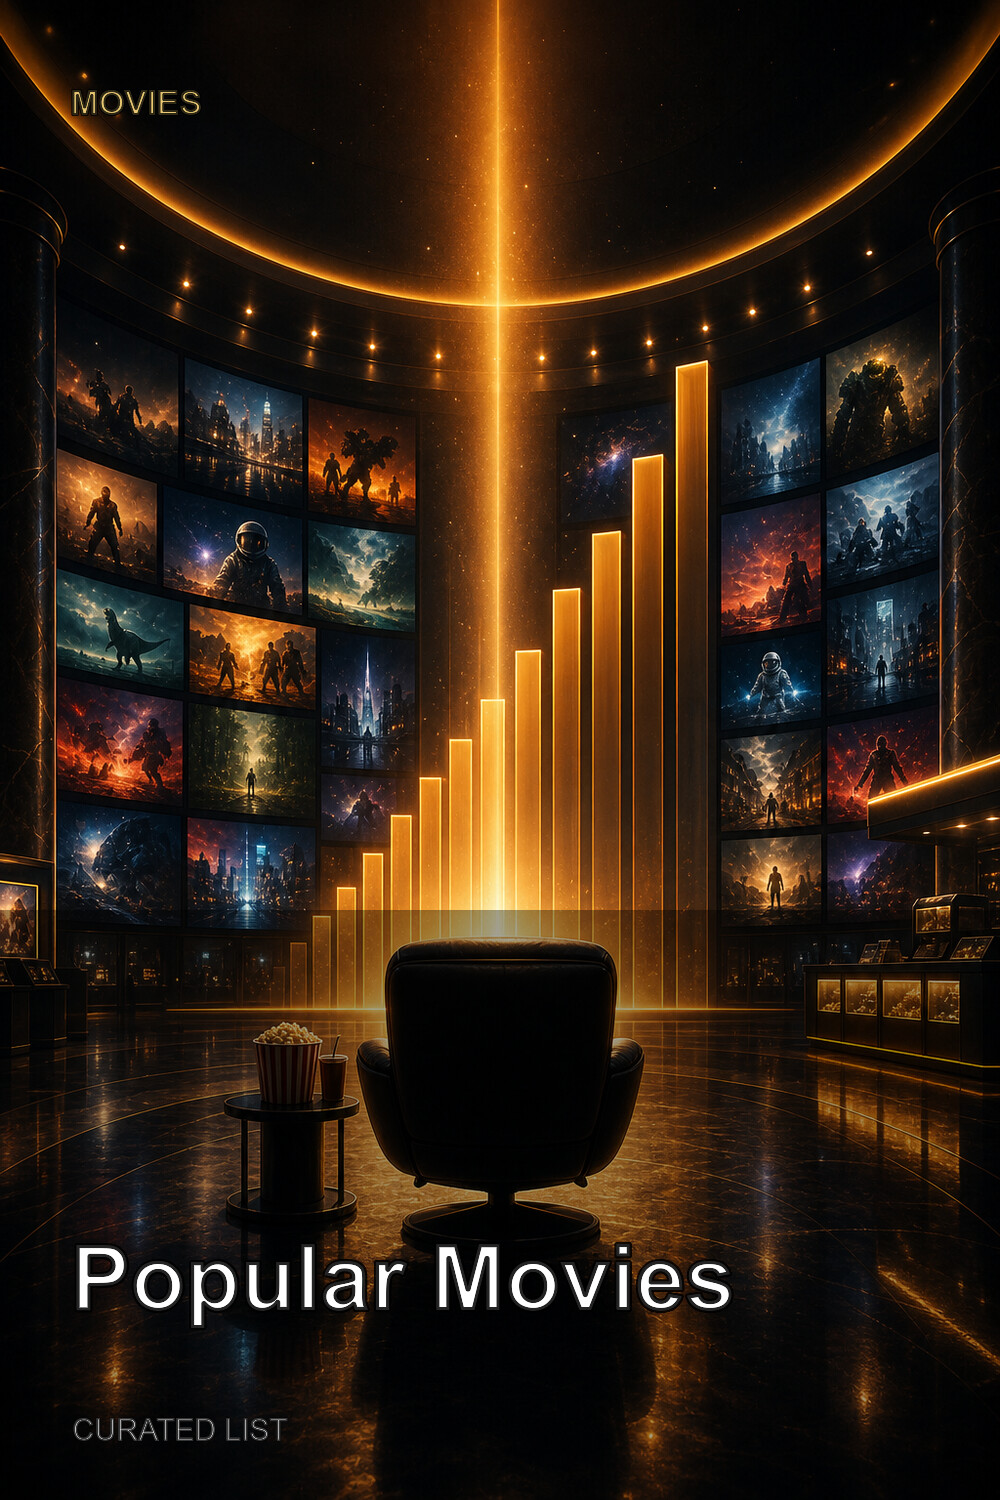
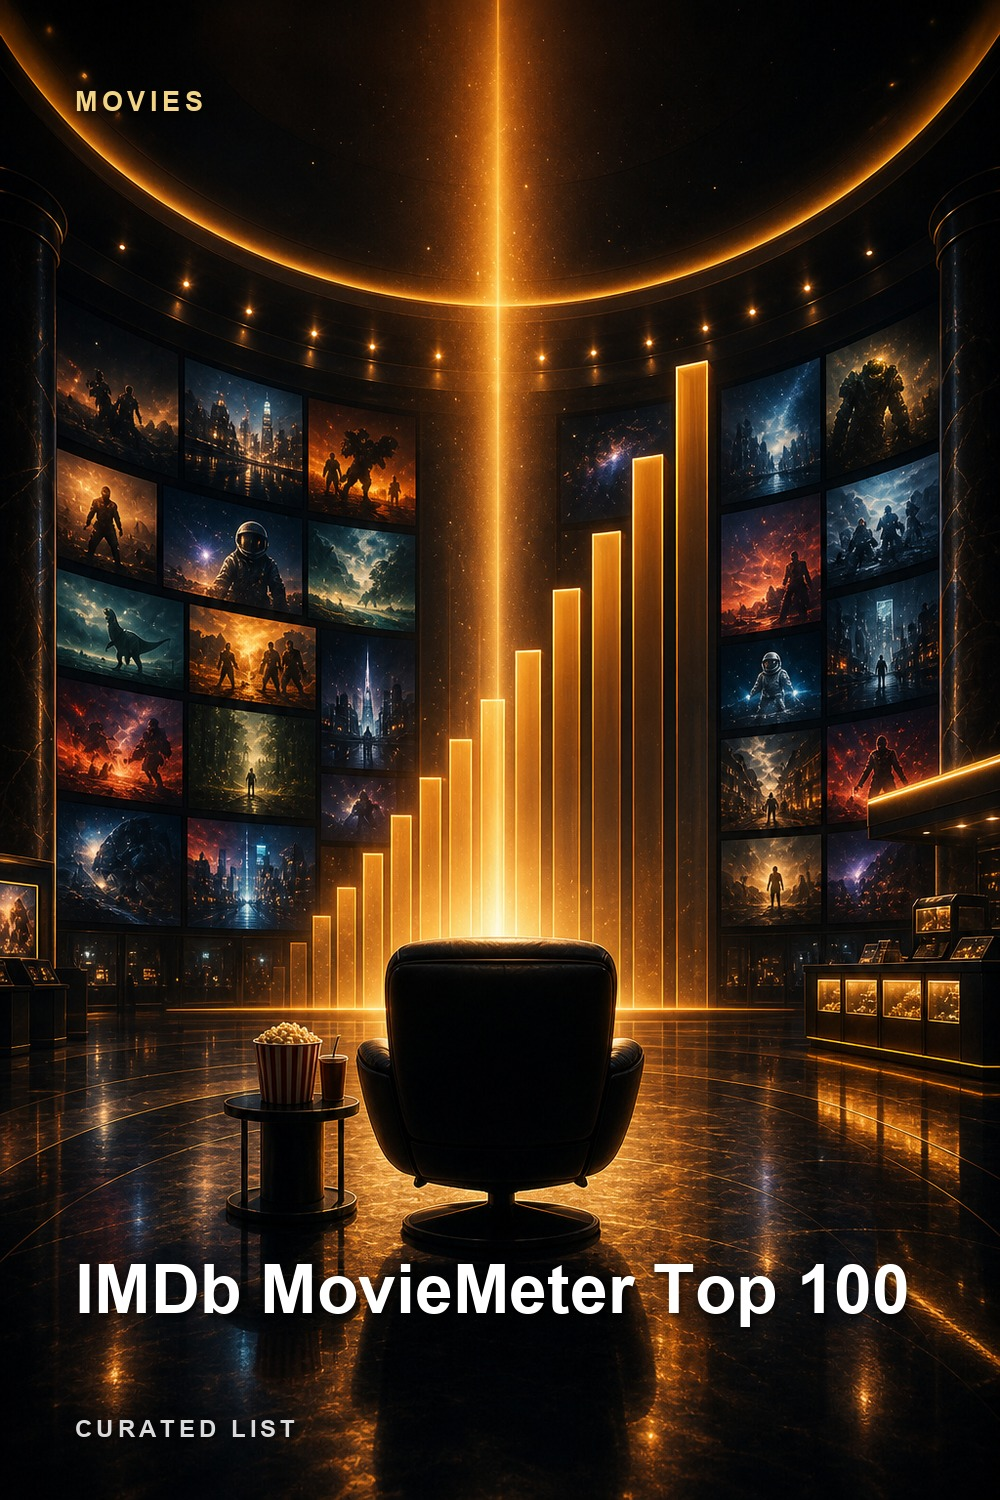
fix(collections): repair broken builtin collection templates (#331)
* fix(collections): repair broken builtin collection templates

A live audit of the builtin template catalog (all 40 MDBList URLs and all
10 TMDB franchise IDs fetched) found two dead sources, a silent bundle-apply
collision, and several templates whose defaults contradict their descriptions:

- Repoint mdblist_misc_a24 and mdblist_misc_criterion_collection to live
  lists; the original irvingbeano/shtluck lists were deleted on MDBList
  (404), so every sync of those collections failed.
- Retitle mdblist_charts_popular_movies to "IMDb MovieMeter Top 100". It
  shared the "popular-movies" title slug with tmdb_popular_movies, and
  bundle apply dedupes by slug per library, so applying all_defaults
  silently skipped it. Poster regenerated from the raw plate with the new
  title; new handler test asserts builtin title slugs stay unique.
- Raise the shared default limit 50 -> 100, give the IMDb Top 250 templates
  an explicit 250 (limit*4 fetch trim previously never scanned entries
  201-250), and drop the limit on catalog lists (Criterion, A24) so they
  hold every owned title.
- Correct IFC Films to MediaMovie (live list is 100% movies; as MediaMixed
  it was offered to TV libraries where it always synced empty) and fix the
  Trakt Popular descriptions (ratings-based, not "most-watched").
- Update stale limit docs in collection-templates.md.

* fix(collections): raise import limit caps above IMDb Top 250 default
[…]

diff --git a/web/src/pages/adminCollectionsShared.tsx b/web/src/pages/adminCollectionsShared.tsx
@@ -2,7 +2,11 @@ import { useEffect, useState } from "react";
 import type { FormEvent, ReactNode } from "react";
 import type { CreateLibraryCollectionRequest, Library, LibraryCollection } from "@/api/types";
 import { normalizeQueryDefinition } from "@/api/types";
-import { libraryEligibilityForMediaKind, type LibraryEligibility } from "@/lib/collectionTemplates";
+import {
+  COLLECTION_MAX_ITEMS,
+  libraryEligibilityForMediaKind,
+  type LibraryEligibility,
+} from "@/lib/collectionTemplates";
 import {
   useCreateAdminCollection,
   useDeleteCollectionImage,
@@ -852,7 +856,7 @@ export function TMDBPresetForm({
             id="tmdb-limit"
             type="number"
             min={1}
-            max={200}
+            max={COLLECTION_MAX_ITEMS}
             step={1}
             inputMode="numeric"
             value={limit}
@@ -1123,7 +1127,7 @@ export function TraktPresetForm({
             id="trakt-limit"
             type="number"
             min={1}
-            max={200}
+            max={COLLECTION_MAX_ITEMS}
             step={1}
             inputMode="numeric"
             value={limit}
@@ -1688,7 +1692,7 @@ export function CollectionEditForm({
                 id="collection-tmdb-limit"
                 type="number"
                 min={1}
-                max={200}
+                max={COLLECTION_MAX_ITEMS}
                 step={1}
                 inputMode="numeric"
                 value={tmdbLimit}
@@ -1741,7 +1745,7 @@ export function CollectionEditForm({
                     id="collection-trakt-limit"
                     type="number"
                     min={1}
-                    max={200}
+                    max={COLLECTION_MAX_ITEMS}
                     step={1}
                     inputMode="numeric"
                     value={traktLimit}
@@ -1806,7 +1810,7 @@ export function CollectionEditForm({
                     id="collection-trakt-limit"
                     type="number"
                     min={1}
-                    max={200}
+                    max={COLLECTION_MAX_ITEMS}
                     step={1}
                     inputMode="numeric"
                     value={traktLimit}

diff --git a/web/src/components/CollectionTemplateGallery/CollectionTemplateConfigForm.tsx b/web/src/components/CollectionTemplateGallery/CollectionTemplateConfigForm.tsx
@@ -8,7 +8,11 @@ import {
 } from "@/hooks/queries/admin/collections";
 import { useProfiles } from "@/hooks/queries/profiles";
 import type { Library } from "@/api/types";
-import { libraryEligibilityForMediaKind, mediaKindLabel } from "@/lib/collectionTemplates";
+import {
+  COLLECTION_MAX_ITEMS,
+  libraryEligibilityForMediaKind,
+  mediaKindLabel,
+} from "@/lib/collectionTemplates";
 import type { CollectionTemplate, LibraryEligibility } from "@/lib/collectionTemplates";
 import {
   CollectionLibraryPicker,
@@ -308,7 +312,7 @@ export function CollectionTemplateConfigForm({
             id="template-limit"
             type="number"
             min={1}
-            max={200}
+            max={COLLECTION_MAX_ITEMS}
             step={1}
             inputMode="numeric"
             value={limit}

diff --git a/web/src/components/CollectionTemplateGallery/UserCollectionTemplateConfigForm.tsx b/web/src/components/CollectionTemplateGallery/UserCollectionTemplateConfigForm.tsx
@@ -20,7 +20,11 @@ import {
   COLLECTION_WATCH_FILTER_OPTIONS,
   displayFiltersToQueryDefinition,
 } from "@/lib/collectionDisplayFilters";
-import { libraryEligibilityForMediaKind, mediaKindLabel } from "@/lib/collectionTemplates";
+import {
+  COLLECTION_MAX_ITEMS,
+  libraryEligibilityForMediaKind,
+  mediaKindLabel,
+} from "@/lib/collectionTemplates";
 import type { CollectionTemplate } from "@/lib/collectionTemplates";
 import {
   CollectionLibraryPicker,
@@ -313,7 +317,7 @@ export function UserCollectionTemplateConfigForm({ template, onCancel, onCreated
             id="user-template-limit"
             type="number"
             min={1}
-            max={200}
+            max={COLLECTION_MAX_ITEMS}
             step={1}
             inputMode="numeric"
             value={limit}

diff --git a/web/src/lib/collectionTemplates.ts b/web/src/lib/collectionTemplates.ts
@@ -175,6 +175,11 @@ export interface ApplyCollectionTemplateBundleResponse {
 
 export const TEMPLATE_STALE_TIME = 5 * 60_000;
 
+// Largest explicit "Max Items" value the import APIs accept. Mirrors
+// MaxExplicitItemLimit in internal/collectionutil — sync never scans more
+// than 500 source entries, so larger limits could never be satisfied.
+export const COLLECTION_MAX_ITEMS = 500;
+
 export function fetchCollectionTemplates(): Promise<CollectionTemplateCatalog> {
   return api<CollectionTemplateCatalog>("/admin/collections/templates");
 }

diff --git a/internal/collections/templates/builtin.go b/internal/collections/templates/builtin.go
@@ -8,7 +8,12 @@ package templates
 // Sync cadences favour conservative defaults — a heavy library does not need
 // "Trending" to refresh more than every six hours, and TMDB rate-limits make
 // hourly refreshes wasteful for shared servers.
-const builtinDefaultLimit = 50
+//
+// builtinDefaultLimit caps the matched items per collection. Sync scans up to
+// 4× the limit from the source list (see collectionutil.SourceFetchLimit), so
+// finite canonical lists (IMDb Top 250, Criterion) carry explicit larger
+// limits — the shared default would silently truncate them.
+const builtinDefaultLimit = 100
 
 var builtinTemplates = []Template{
 	// ── Trending (TMDB) ─────────────────────────────────────────────────────
@@ -105,7 +110,7 @@ var builtinTemplates = []Template{
 	{
 		ID:                  "trakt_popular_movies",
 		Title:               "Trakt Popular Movies",
-		Description:         "Trakt's all-time most-watched movies.",
+		Description:         "Trakt's most popular movies of all time, ranked by user ratings.",
 		Icon:                "🌟",
 		Category:            CategoryPopular,
 		Source:              SourceTrakt,
@@ -117,7 +122,7 @@ var builtinTemplates = []Template{
 	{
 		ID:                  "trakt_popular_shows",
 		Title:               "Trakt Popular Shows",
-		Description:         "Trakt's all-time most-watched shows.",
+		Description:         "Trakt's most popular shows of all time, ranked by user ratings.",
 		Icon:                "🌟",
 		Category:            CategoryPopular,
 		Source:              SourceTrakt,
@@ -346,7 +351,7 @@ var builtinTemplates = []Template{
 		Category:            CategoryTopRated,
 		Source:              SourceMDBList,
 		MediaKind:           MediaMovie,
-		DefaultLimit:        builtinDefaultLimit,
+		DefaultLimit:        250,
 		DefaultSyncSchedule: "0 5 * * 0",
 		MDBList:             &MDBListSpec{URL: "https://mdblist.com/lists/snoak/imdb-top-250-movies/json"},
 	},
@@ -358,7 +363,7 @@ var builtinTemplates = []Template{
 		Category:            CategoryTopRated,
 		Source:              SourceMDBList,
 		MediaKind:           MediaTV,
-		DefaultLimit:        builtinDefaultLimit,
+		DefaultLimit:        250,
 		DefaultSyncSchedule: "0 5 * * 0",
 		MDBList:             &MDBListSpec{URL: "https://mdblist.com/lists/snoak/imdb-top-250-shows/json"},
 	},
@@ -600,10 +605,13 @@ var builtinTemplates = []Template{
 	// ── Charts (MDBList) ───────────────────────────────────────────────────
 	// 1000s band. "Top Rated Movies" is already covered by the existing
 	// `mdblist_imdb_top_250_movies` template under CategoryTopRated, so this
-	// chart only contributes a Popular-Movies entry.
+	// chart only contributes the MovieMeter entry. Its title must NOT be
+	// "Popular Movies": bundle apply dedupes by slugified title per library,
+	// and `tmdb_popular_movies` already owns the popular-movies slug — a
+	// duplicate title would make this template silently skip in all_defaults.
 	{
 		ID:                  "mdblist_charts_popular_movies",
-		Title:               "Popular Movies",
+		Title:               "IMDb MovieMeter Top 100",
 		Description:         "IMDb MovieMeter's most-popular movies right now, kept in sync from MDBList (linaspurinis).",
 		Icon:                "📊",
 		Category:            CategoryPopular,
@@ -756,41 +764,46 @@ var builtinTemplates = []Template{
 	// 9000s band. Studio and distributor catalogs the operator's PMM
 	// `movies_misc` set typically includes.
 	{
-		ID:                  "mdblist_misc_criterion_collection",
-		Title:               "Criterion Collection",
-		Description:         "The complete Criterion Collection of films, kept in sync from MDBList (shtluck).",
-		Icon:                "🎞️",
-		Category:            CategoryEditorial,
-		Source:              SourceMDBList,
-		MediaKind:           MediaMovie,
-		DefaultLimit:        builtinDefaultLimit,
+		// Repointed 2026-07: the original shtluck list was deleted on MDBList.
+		ID:          "mdblist_misc_criterion_collection",
+		Title:       "Criterion Collection",
+		Description: "The Criterion Collection of films, kept in sync from MDBList (reptauros).",
+		Icon:        "🎞️",
+		Category:    CategoryEditorial,
+		Source:      SourceMDBList,
+		MediaKind:   MediaMovie,
+		// No limit: this is a catalog list (~1000 entries) — the collection
+		// should hold every Criterion title the library owns, not a top-N.
+		DefaultLimit:        0,
 		DefaultSortOrder:    9001,
 		DefaultSyncSchedule: "0 5 * * 0",
 		Tags:                []string{"editorial", "studio"},
-		MDBList:             &MDBListSpec{URL: "https://mdblist.com/lists/shtluck/the-complete-criterion-collection/json"},
+		MDBList:             &MDBListSpec{URL: "https://mdblist.com/lists/reptauros/the-criterion-collection/json"},
 	},
 	{
-		ID:                  "mdblist_misc_a24",
-		Title:               "A24",
-		Description:         "Films distributed by A24, kept in sync from MDBList (irvingbeano).",
-		Icon:                "🎬",
-		Category:            CategoryEditorial,
-		Source:              SourceMDBList,
-		MediaKind:           MediaMovie,
-		DefaultLimit:        builtinDefaultLimit,
+		// Repointed 2026-07: the original irvingbeano list was deleted on MDBList.
+		ID:          "mdblist_misc_a24",
+		Title:       "A24",
+		Description: "Films distributed by A24, kept in sync from MDBList (InShaneMagic).",
+		Icon:        "🎬",
+		Category:    CategoryEditorial,
+		Source:      SourceMDBList,
+		MediaKind:   MediaMovie,
+		// No limit: catalog list (~150 entries) — hold every owned A24 film.
+		DefaultLimit:        0,
 		DefaultSortOrder:    9002,
 		DefaultSyncSchedule: "0 5 * * 0",
 		Tags:                []string{"editorial", "studio"},
-		MDBList:             &MDBListSpec{URL: "https://mdblist.com/lists/irvingbeano/a24/json"},
+		MDBList:             &MDBListSpec{URL: "https://mdblist.com/lists/inshanemagic/a24-films/json"},
 	},
 	{
 		ID:                  "mdblist_misc_ifc_films",
 		Title:               "IFC Films",
-		Description:         "IFC Films catalog spanning movies and series (MDBList by notamongo5).",
+		Description:         "IFC Films movie catalog (MDBList by notamongo5).",
 		Icon:                "🎬",
 		Category:            CategoryEditorial,
 		Source:              SourceMDBList,
-		MediaKind:           MediaMixed,
+		MediaKind:           MediaMovie,
 		DefaultLimit:        builtinDefaultLimit,
 		DefaultSortOrder:    9003,
 		DefaultSyncSchedule: "0 5 * * 0",

diff --git a/internal/collections/templates/templates_test.go b/internal/collections/templates/templates_test.go
@@ -62,10 +62,23 @@ func TestBuiltinTemplatesValidate(t *testing.T) {
 	}
 }
 
-func TestBuiltinTemplatesDefaultToFiftyItems(t *testing.T) {
+func TestBuiltinTemplateDefaultLimits(t *testing.T) {
+	// Finite canonical lists override the shared default: top-N truncation
+	// would contradict what their titles promise. Catalog lists (Criterion,
+	// A24) carry no limit at all so the collection holds every owned title.
+	overrides := map[string]int{
+		"mdblist_imdb_top_250_movies":       250,
+		"mdblist_imdb_top_250_shows":        250,
+		"mdblist_misc_criterion_collection": 0,
+		"mdblist_misc_a24":                  0,
+	}
 	for _, tmpl := range List() {
-		if tmpl.DefaultLimit != builtinDefaultLimit {
-			t.Errorf("template %q default_limit = %d, want %d", tmpl.ID, tmpl.DefaultLimit, builtinDefaultLimit)
+		want := builtinDefaultLimit
+		if override, ok := overrides[tmpl.ID]; ok {
+			want = override
+		}
+		if tmpl.DefaultLimit != want {
+			t.Errorf("template %q default_limit = %d, want %d", tmpl.ID, tmpl.DefaultLimit, want)
 		}
 	}
 }

diff --git a/internal/api/handlers/collection_templates_test.go b/internal/api/handlers/collection_templates_test.go
@@ -36,6 +36,22 @@ func TestCollectionTemplateHandlerReturnsBuiltinCatalog(t *testing.T) {
 	}
 }
 
+// Bundle apply dedupes collections by slugified title per library
+// (applyTemplateBundle's slug-match adoption), so two builtin templates with
+// the same title slug can never coexist: whichever applies second is silently
+// skipped as already_exists.
+func TestBuiltinTemplateTitleSlugsAreUnique(t *testing.T) {
+	bySlug := make(map[string]string)
+	for _, tmpl := range templates.List() {
+		slug := slugifyCollectionName(tmpl.Title)
+		if other, exists := bySlug[slug]; exists {
+			t.Errorf("templates %q and %q share title slug %q; bundle apply would silently skip one", other, tmpl.ID, slug)
+			continue
+		}
+		bySlug[slug] = tmpl.ID
+	}
+}
+
 func TestCollectionTemplateHandlerHonoursInjectedRegistry(t *testing.T) {
 	registry := templates.NewRegistry()
 	registry.Register(templates.Template{

diff --git a/internal/api/handlers/user_collection_imports.go b/internal/api/handlers/user_collection_imports.go
@@ -16,6 +16,7 @@ import (
 	apimw "github.com/Silo-Server/silo-server/internal/api/middleware"
 	"github.com/Silo-Server/silo-server/internal/catalog"
 	"github.com/Silo-Server/silo-server/internal/collections/templates"
+	"github.com/Silo-Server/silo-server/internal/collectionutil"
 	"github.com/Silo-Server/silo-server/internal/mdblist"
 	"github.com/Silo-Server/silo-server/internal/s3client"
 	"github.com/Silo-Server/silo-server/internal/usercollections"
@@ -430,8 +431,9 @@ func validateOptionalLimit(limit *int, w http.ResponseWriter) bool {
 	if limit == nil {
 		return true
 	}
-	if *limit <= 0 || *limit > 200 {
-		writeError(w, http.StatusBadRequest, "bad_request", "limit must be between 1 and 200")
+	if *limit <= 0 || *limit > collectionutil.MaxExplicitItemLimit {
+		writeError(w, http.StatusBadRequest, "bad_request",
+			fmt.Sprintf("limit must be between 1 and %d", collectionutil.MaxExplicitItemLimit))
 		return false
 	}
 	return true

diff --git a/internal/collectionutil/collectionutil.go b/internal/collectionutil/collectionutil.go
@@ -13,6 +13,12 @@ const (
 	collectionSourceFetchMax        = 500
 )
 
+// MaxExplicitItemLimit is the largest explicit per-collection item limit the
+// import APIs accept. Sync never scans more than collectionSourceFetchMax
+// source entries, so a larger explicit limit could never be satisfied anyway.
+// Mirrored by COLLECTION_MAX_ITEMS in web/src/lib/collectionTemplates.ts.
+const MaxExplicitItemLimit = collectionSourceFetchMax
+
 func SourceFetchLimit(itemLimit *int) int {
 	if itemLimit == nil || *itemLimit <= 0 {
 		return 0

diff --git a/docs/wiki/admin/collection-templates.md b/docs/wiki/admin/collection-templates.md
@@ -63,9 +63,10 @@ The default registry covers TMDB and Trakt's public discovery feeds plus a
 | Editorial          | Trakt Recommended Movies/Shows (per profile), Mindfuck Movies, Top Documentary Movies, Top Horror Movies (MDBList) |
 | Custom             | MDBList — bring your own JSON URL                                                                               |
 
-TMDB and Trakt templates default to 20 items; MDBList templates default to 50
-because the underlying lists tend to be longer (IMDb Top 250, full streaming
-catalogs, etc.). Every template ships with a conservative sync cadence — every
+Templates default to 100 items. Finite canonical lists override that so the
+collection can hold what the title promises: the IMDb Top 250 templates use
+250, and catalog lists (Criterion Collection, A24) ship with no limit at all
+so they match every owned title. Every template ships with a conservative sync cadence — every
 6 hours for trending, daily for popular and streaming services, weekly for
 top-rated and editorial picks — and a "featured" hint where appropriate. All
 defaults are editable in the small confirmation drawer before the collection